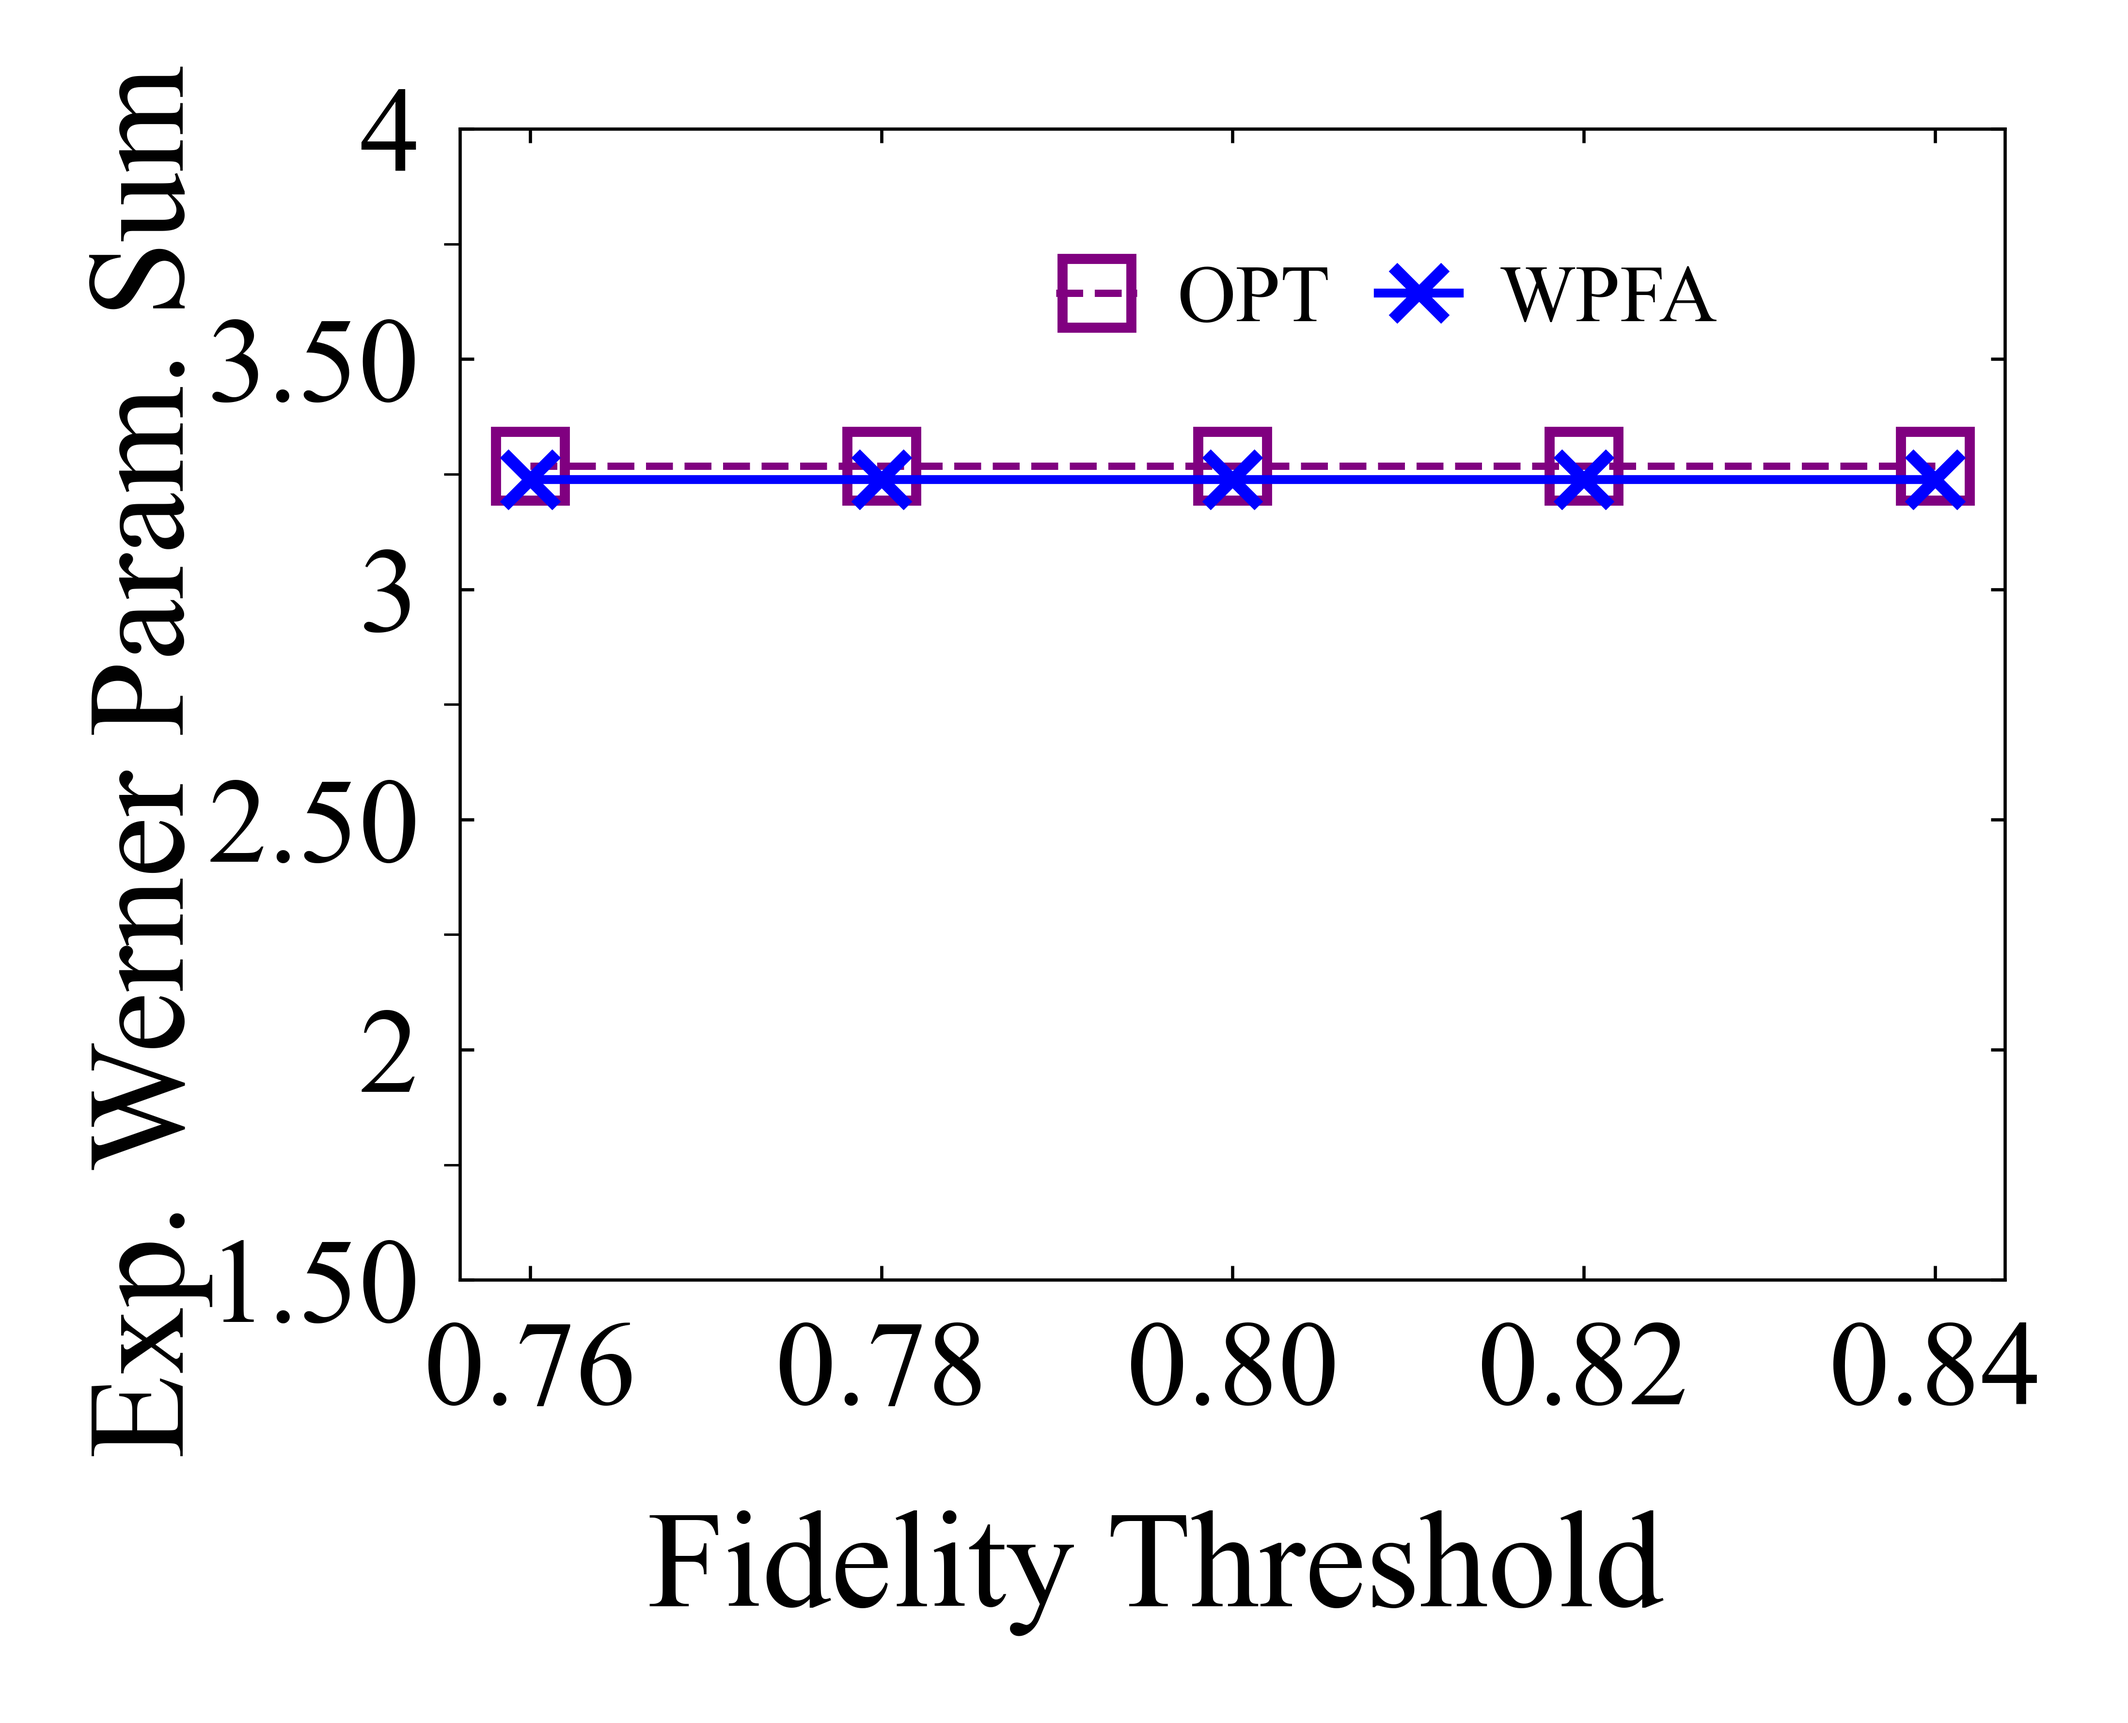
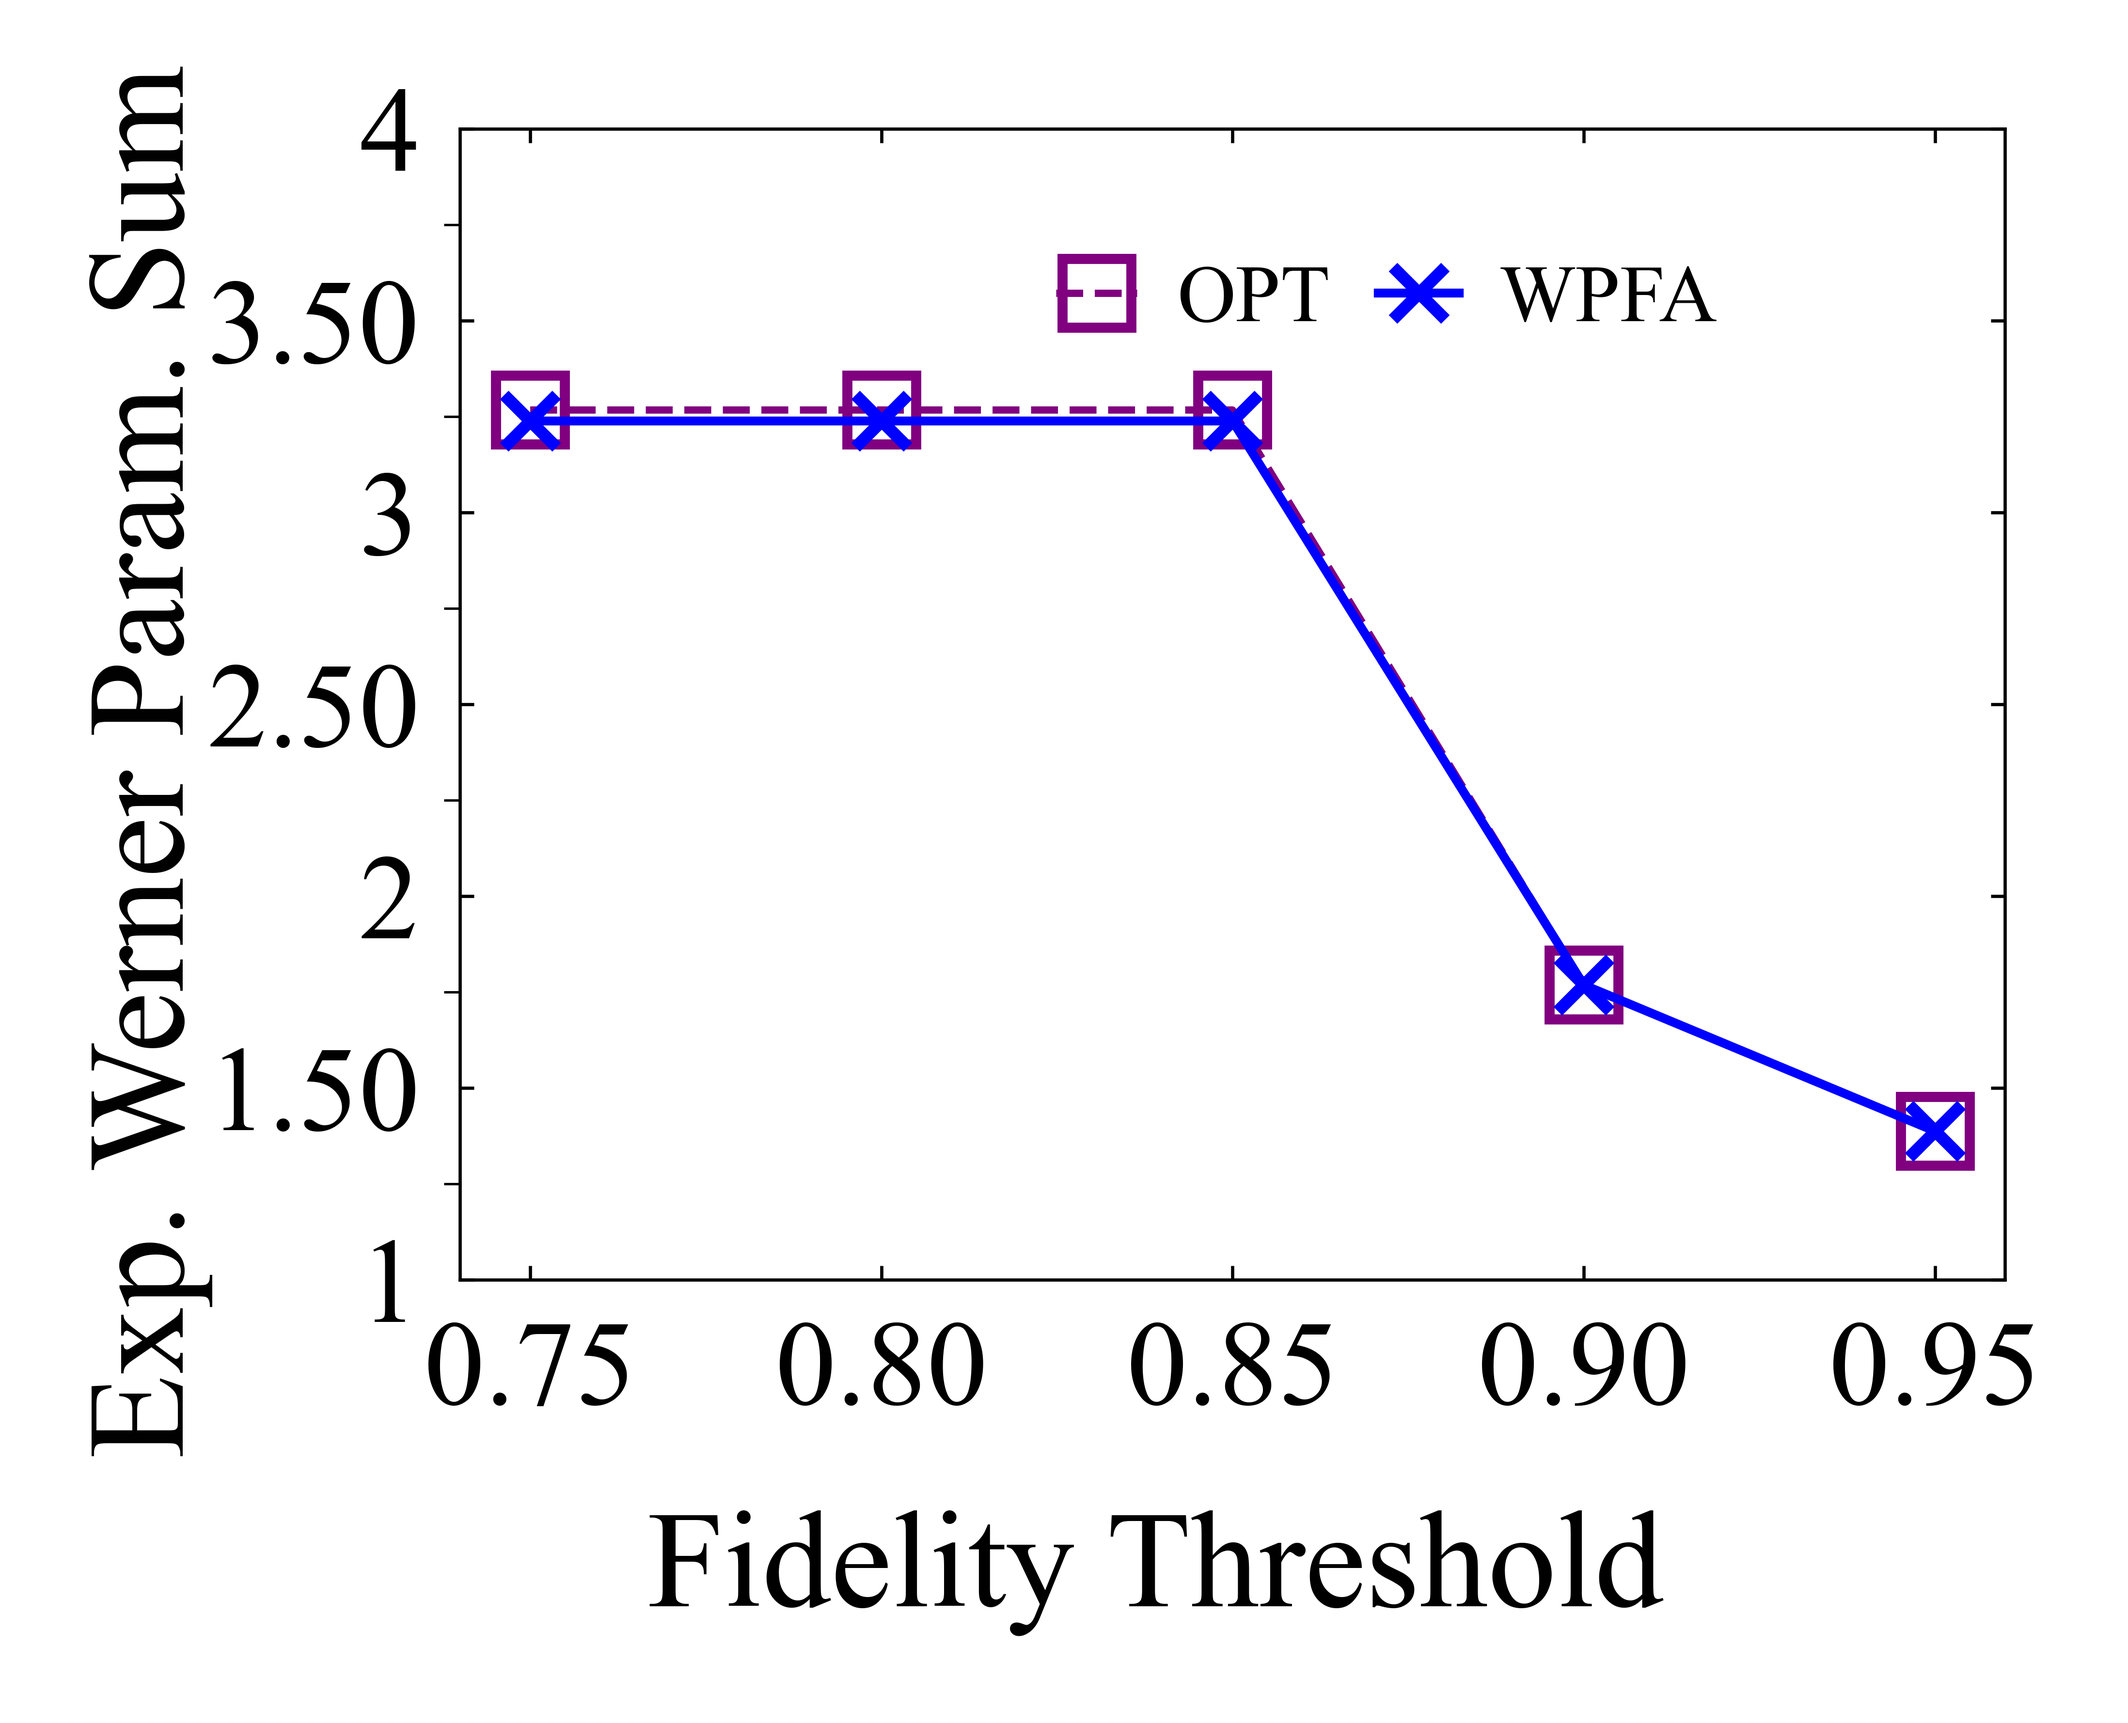
fix small_scale

diff --git a/plot/ChartGenerator.py b/plot/ChartGenerator.py
@@ -234,23 +234,26 @@ class ChartGenerator:
     _SMALL_SCALE_Y_INTERVALS = {
         'fidelity_gain': {
             'request_cnt': (1, 5, 0.5, 2),
-            'fidelity_threshold': (1.5, 4.0, 0.25, 2),
-            'tao': (3, 3.5, 0.25, 1),
+            'fidelity_threshold': (1, 4.0, 0.25, 2),
+            'tao': (2.5, 3.5, 0.25, 1),
             'swap_prob': (2.75, 3.5, 0.25, 1),
-            'avg_memory': (1.5, 4.0, 0.25, 2),
+            'time_limit': "auto",
+            'avg_memory': (0, 4.0, 0.5, 2),
         },
         'succ_request_cnt': {
             'request_cnt': (0, 6, 0.5, 2),
             'fidelity_threshold': (1.5, 4.5, 0.25, 2),
             'tao': (1.5, 4.5, 0.25, 2),
             'swap_prob': (1.5, 4.5, 0.25, 2),
-            'avg_memory': (1.5, 4.5, 0.25, 2),
+            'time_limit': "auto",
+            'avg_memory': (0, 4.5, 0.5, 2),
         },
         'actual_req_cnt': {
             'request_cnt': (0, 6, 0.5, 2),
             'fidelity_threshold': (0, 5, 0.5, 2),
             'tao': (0, 5, 0.5, 2),
             'swap_prob': (0, 5, 0.5, 2),
+            'time_limit': "auto",
             'avg_memory': (0, 5, 0.5, 2),
         },
         'runtime': {
@@ -258,6 +261,7 @@ class ChartGenerator:
             'fidelity_threshold': (0, 0.010, 0.001, 2),
             'tao': (0, 0.010, 0.001, 2),
             'swap_prob': (0, 0.010, 0.001, 2),
+            'time_limit': "auto",
             'avg_memory': (0, 0.010, 0.001, 2),
         },
     }
@@ -415,7 +419,7 @@ class ChartGenerator:
             # Keep the compact few-point SmallScale axes readable.  The ANS
             # files use full double precision, which is useful for replay but
             # far too verbose for tick labels.
-            if x_key in ("request_cnt", "avg_memory"):
+            if x_key in ("request_cnt", "time_limit", "avg_memory"):
                 x_labels = [
                     f"{int(round(float(value)))}" for value in x_vals
                 ]
@@ -740,7 +744,7 @@ if __name__ == "__main__":
         "SmallScale": (
             [
                 "request_cnt", "fidelity_threshold", "tao",
-                "swap_prob", "avg_memory",
+                "swap_prob", "time_limit", "avg_memory",
             ],
             [
                 "fidelity_gain", "succ_request_cnt",

diff --git a/src/main_smallscale.cpp b/src/main_smallscale.cpp
@@ -39,6 +39,7 @@ const vector<string> SWEEP_NAMES = {
     "fidelity_threshold",
     "tao",
     "swap_prob",
+    "time_limit",
     "avg_memory",
 };
 
@@ -96,7 +97,7 @@ struct Aggregate {
 void print_help(const char* executable) {
     cout << "Usage: " << executable << " [options]\n"
          << "  --sweep NAME  run only request_cnt, fidelity_threshold, tao, "
-            "swap_prob, or avg_memory\n"
+            "swap_prob, time_limit, or avg_memory\n"
          << "  --help        show this message\n";
 }
 
@@ -154,7 +155,8 @@ const vector<double>& sweep_values(const string& sweep) {
         {"fidelity_threshold", {0.75, 0.80, 0.85, 0.90, 0.95}},
         {"tao", {0.0015, 0.0020, 0.0025, 0.0030, 0.0035}},
         {"swap_prob", {0.70, 0.75, 0.80, 0.85, 0.90}},
-        {"avg_memory", {2, 4, 6, 8, 10}},
+        {"time_limit", {1, 2, 3, 4, 5, 6, 7, 8, 9, 10}},
+        {"avg_memory", {1, 2, 3, 4, 5, 6, 7, 8, 9, 10}},
     };
     return values.at(sweep);
 }
@@ -189,6 +191,8 @@ TrialSpec make_trial(const TopologySpec& topology,
         trial.slot_duration = value;
     } else if(sweep == "swap_prob") {
         trial.swap_probability = value;
+    } else if(sweep == "time_limit") {
+        trial.time_limit = (int)llround(value);
     } else if(sweep == "avg_memory") {
         trial.memory_per_node = (int)llround(value);
     } else {
